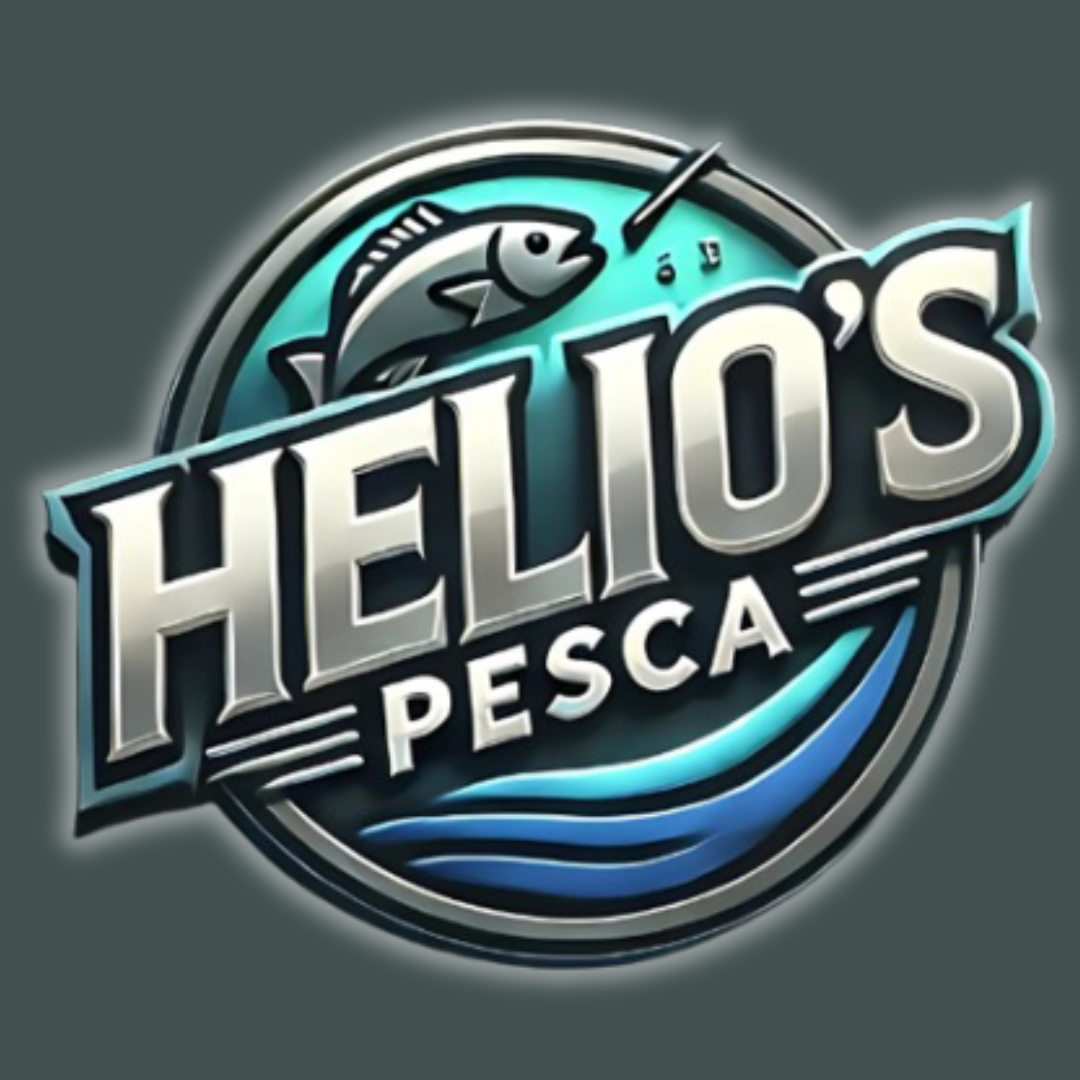
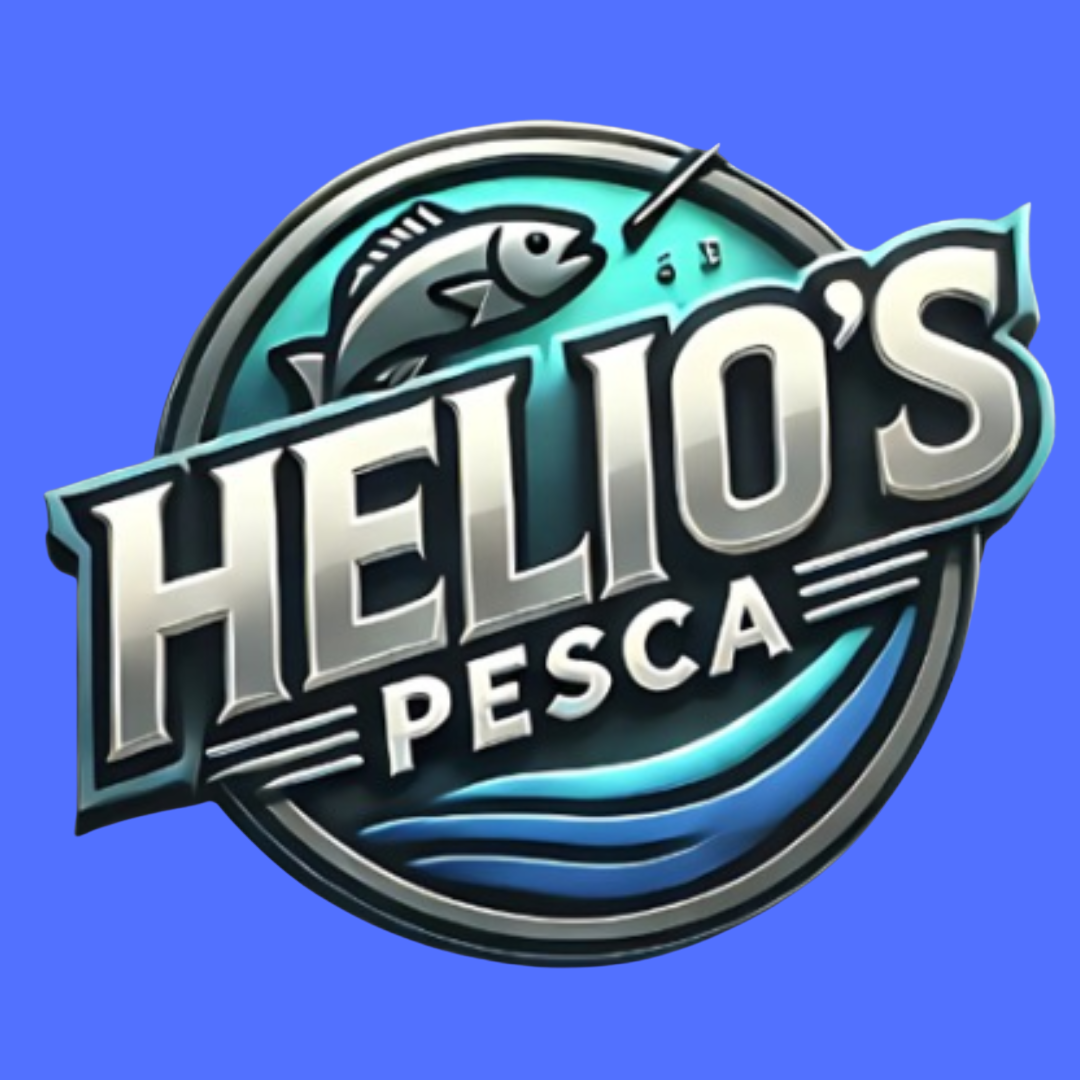
Add files via upload

diff --git a/index.html b/index.html
@@ -28,7 +28,7 @@
         </div>
         </header>
         <!--Banner-->
-        <img src="img/Banner.jpeg" title="Banner" class="Banner"/>
+        <img src="img/Banner.png" title="Banner" class="Banner"/>
         <!--Conteúdo da página web-->
         <main>
             <div>
@@ -39,8 +39,8 @@
                 <h2 title="img_sobrenos">Nossa História: De Pai pra Filho</h2>
                 <img src="img/paiefilho.jpeg" class="img_sobrenos"/> 
                 <!--essa de cima é da imagem minha e do meu pai-->
-                
-                <p>  Nossa loja de pesca nasceu de uma paixão que atravessa gerações.Desde pequeno, Hélio acompanhava seu pai, Também Hélio, em pescarias memoráveis, onde aprendeu não apenas a arte de pescar, mas também o valor do tempo compartilhado entre pai e filho.<p>
+                 
+                <p>  Nossa loja de pesca nasceu de uma paixão que atravessa gerações. Desde pequeno, Hélio acompanhava seu pai, Também Hélio, em pescarias memoráveis, onde aprendeu não apenas a arte de pescar, mas também o valor do tempo compartilhado entre pai e filho.<p>
 
                 </p>  Meu Pai sempre dizia que a pescaria ensina paciência, respeito à natureza e, acima de tudo, fortalece os laços familiares. Inspirado por essa herança, decidi então transformar esse amor pela pesca em um negócio, criando um espaço onde outros pais e filhos pudessem viver as mesmas experiências inesquecíveis.<p>
 

diff --git a/css/estilos.css b/css/estilos.css
@@ -10,7 +10,7 @@ body {
 }
 /*Estilização do header do site*/
 header {
-    background-color: rgb(66, 80, 80);
+    background-color: #5271ff;
 }
 /*Estilização da DIV do header*/
 .divHeader {
@@ -34,18 +34,19 @@ nav li {
 /*Banner do Site*/
 .banner {
     width: 100%;
-    height: 320;
+    height: 370;
     object-fit: cover;
 }
 /*imagem minha e do meu pai + TEXTO*/
-.img_sobrenos {
+.img_sobrenos {  
     width: 25%;
     float: left;
     
 
 }
 .fundohistoria {
-    background:linear-gradient(#ffffff, #6adbd6,#838f8d,#39474a);
+    padding: 4;
+    background:linear-gradient(#ffedff,#e0a1ff,#b680f8,#8d5ff1,#633dea,#391ce2);
     
 }
 
@@ -70,8 +71,9 @@ nav li {
     font-size: 20;
 }
 .nossosprodutos {
-    padding: 2%;
+    padding: 1%;
     text-align: center;
+    color: #092442;
     font-size: 20;
 }
 .div_nossosprodutos{
@@ -79,20 +81,26 @@ nav li {
     margin-left: 10%;
 }
 .lista_nossosprodutos{
-    width: 30%;
+    width: 40%;
+    color: white;
     display: inline-block;
     vertical-align: top;
     list-style: none;
+    
 }
 .lista_nossosprodutos li{
     line-height: 2;
 }
 .lista_nossosprodutos li:before{
-    content: "» ";
+    content: "≈ ";
 }
 .img_Produtos{
-    width: 20%;
+    width: 30%;
     border-radius: 8px;
+    box-shadow: 10px 10px 5px 0px white;
+    opacity: 1;
+    transition: 100ms;
+
 }
 .img_Produtos:hover{
     opacity: 0.8;
